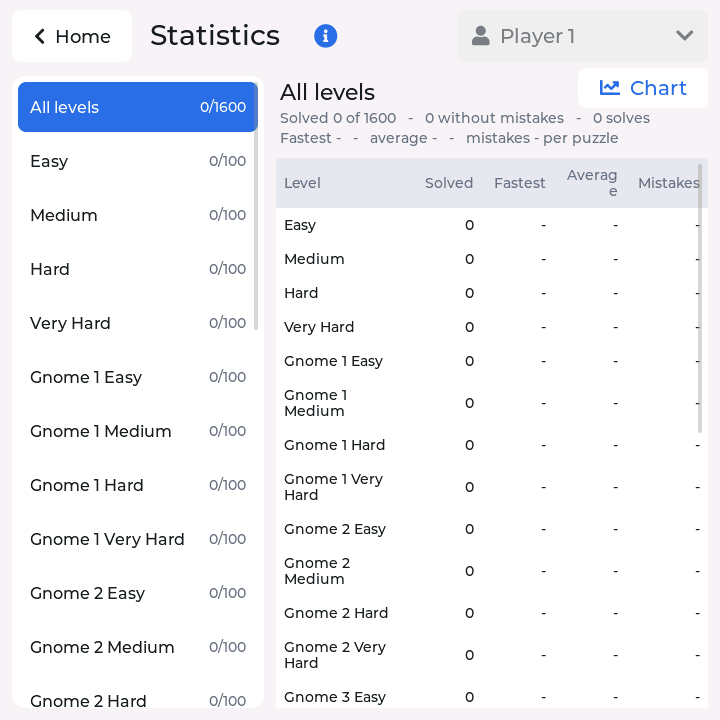
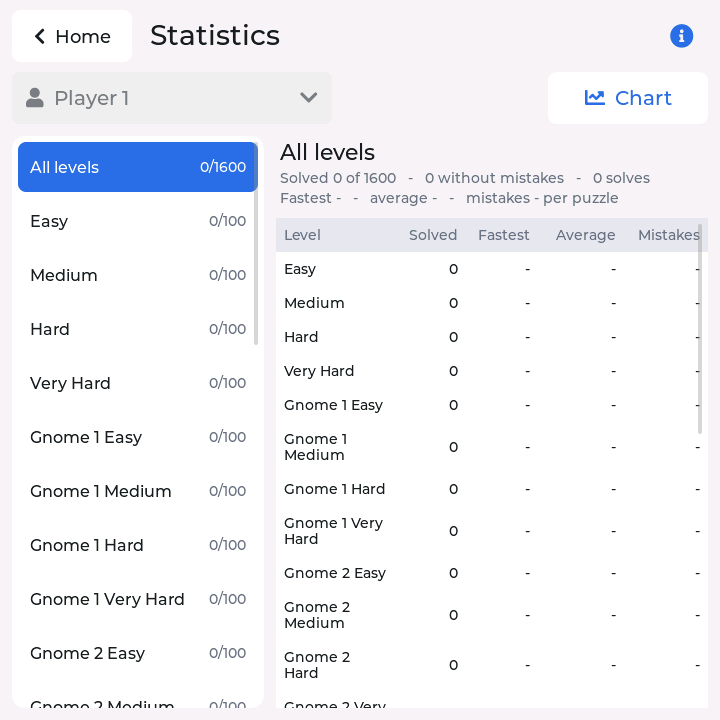
update statistics

diff --git a/src/sudoku_ui.c b/src/sudoku_ui.c
@@ -4074,7 +4074,7 @@ static void render_stats(const stats_view_t *v, bool from_db)
         /* one row per level */
         lv_label_set_text(x_title, "All levels");
         stats_summary(&v->total, PUZZLE_COUNT);
-        static const int32_t w[] = {140, 66, 72, 72, 82};   /* sums to PANE_W */
+        static const int32_t w[] = {120, 70, 72, 86, 84};   /* sums to PANE_W; every header on one line */
         static const char *const h[] = {"Level", "Solved", "Fastest", "Average", "Mistakes"};
         lv_table_set_row_count(x_table, PUZZLE_COLLECTION_COUNT + KIND_COUNT + 1);
         table_columns(5, w, h);
@@ -4105,7 +4105,7 @@ static void render_stats(const stats_view_t *v, bool from_db)
                               (unsigned)t->solved, t->solved == 1 ? "" : "s", (unsigned)t->perfect,
                               (unsigned long)t->solves);
         lv_label_set_text_fmt(x_sum2, "Fastest %s   -   average %s   -   mistakes %s per puzzle", f, a, m);
-        static const int32_t w[] = {140, 66, 72, 72, 82};
+        static const int32_t w[] = {120, 70, 72, 86, 84};
         static const char *const h[] = {"Level", "Solved", "Fastest", "Average", "Mistakes"};
         lv_table_set_row_count(x_table, GEN_LEVELS + 1);
         table_columns(5, w, h);
@@ -6656,6 +6656,10 @@ static void build_home(void)
     lv_obj_align(src, LV_ALIGN_BOTTOM_MID, 0, -8);
 }
 
+/* the Statistics screen, top down: title and (i); player, Chart; levels | table */
+#define X_ROW_Y   72                                /* the row under the title */
+#define X_BODY_Y  (X_ROW_Y + 52 + 12)               /* the level column and the pane */
+
 static void build_stats(void)
 {
     scr_stats = make_screen();
@@ -6664,12 +6668,15 @@ static void build_stats(void)
     lv_obj_t *t = make_label(scr_stats, &lv_font_montserrat_28, C_TEXT);
     lv_label_set_text(t, "Statistics");
     lv_obj_set_pos(t, 150, 20);
-    lv_obj_t *info = make_btn(scr_stats, 300, 10, 52, 52, SYMBOL_INFO, &font_icons_24, stats_info_cb, NULL);
+    lv_obj_t *info = make_btn(scr_stats, SCR_W - 12 - 52, 10, 52, 52, SYMBOL_INFO, &font_icons_24, stats_info_cb,
+                              NULL);                 /* top right, on the title's line */
     lv_obj_set_style_bg_opa(info, LV_OPA_TRANSP, 0);
     lv_obj_set_style_bg_opa(info, LV_OPA_COVER, LV_STATE_PRESSED);
     lv_obj_set_style_text_color(lv_obj_get_child(info, 0), C_ACCENT, 0);
 
     lv_obj_t *list = make_coll_column(scr_stats);
+    lv_obj_set_pos(list, 12, X_BODY_Y);
+    lv_obj_set_size(list, COLL_W, SCR_W - X_BODY_Y - 12);
     x_btn[0] = make_coll_btn(list, "All levels", &x_name_lbl[0], &x_cnt_lbl[0], stats_row_cb, 0);
     for (int c = 0; c < PUZZLE_COLLECTION_COUNT; c++) {
         x_btn[c + 1] = make_coll_btn(list, puzzle_collections[c].name, &x_name_lbl[c + 1], &x_cnt_lbl[c + 1],
@@ -6683,8 +6690,8 @@ static void build_stats(void)
     int px = PANE_X, pw = PANE_W;
     /* top bar, right: whose statistics, as a dropdown */
     x_player_dd = lv_dropdown_create(scr_stats);
-    lv_obj_set_pos(x_player_dd, SCR_W - 12 - 250, 10);
-    lv_obj_set_size(x_player_dd, 250, 52);
+    lv_obj_set_pos(x_player_dd, 12, X_ROW_Y);          /* whose statistics: first in the row */
+    lv_obj_set_size(x_player_dd, 320, 52);
     lv_obj_set_style_text_font(x_player_dd, &font_icons_20, 0);
     lv_obj_set_style_text_color(x_player_dd, C_TEXT, 0);
     lv_obj_set_style_bg_color(x_player_dd, C_CARD, 0);
@@ -6706,15 +6713,15 @@ static void build_stats(void)
     lv_obj_add_event_cb(x_player_dd, stats_player_dd_cb, LV_EVENT_VALUE_CHANGED, NULL);
     stats_player_dd_update();
     x_title = make_label(scr_stats, &lv_font_montserrat_22, C_TEXT);
-    lv_obj_set_pos(x_title, px + 4, 80);
+    lv_obj_set_pos(x_title, px + 4, X_BODY_Y + 4);
     x_sum1 = make_label(scr_stats, &lv_font_montserrat_14, C_MUTED);
-    lv_obj_set_pos(x_sum1, px + 4, 110);
+    lv_obj_set_pos(x_sum1, px + 4, X_BODY_Y + 34);
     x_sum2 = make_label(scr_stats, &lv_font_montserrat_14, C_MUTED);
-    lv_obj_set_pos(x_sum2, px + 4, 130);
+    lv_obj_set_pos(x_sum2, px + 4, X_BODY_Y + 54);
 
     x_table = lv_table_create(scr_stats);
-    lv_obj_set_pos(x_table, px, 158);
-    lv_obj_set_size(x_table, pw, SCR_W - 158 - 12);
+    lv_obj_set_pos(x_table, px, X_BODY_Y + 82);
+    lv_obj_set_size(x_table, pw, SCR_W - X_BODY_Y - 82 - 12);
     lv_obj_set_style_bg_color(x_table, C_CARD, 0);
     lv_obj_set_style_border_width(x_table, 0, 0);
     lv_obj_set_style_radius(x_table, 12, 0);
@@ -6734,15 +6741,15 @@ static void build_stats(void)
 
     x_empty = make_label(scr_stats, &lv_font_montserrat_18, C_MUTED);
     lv_label_set_text(x_empty, "No puzzles solved in this level yet.");
-    lv_obj_set_pos(x_empty, px + 4, 180);
+    lv_obj_set_pos(x_empty, px + 4, X_BODY_Y + 104);
 
     /* Chart / Table switch (top right of the pane) and the chart card in the table's place */
-    x_chart_btn = make_btn(scr_stats, SCR_W - 12 - 130, 68, 130, 40, SYMBOL_CHART "  Chart", &font_icons_20,
+    x_chart_btn = make_btn(scr_stats, SCR_W - 12 - 160, X_ROW_Y, 160, 52, SYMBOL_CHART "  Chart", &font_icons_20,
                            chart_btn_cb, NULL);
     lv_obj_set_style_text_color(lv_obj_get_child(x_chart_btn, 0), C_ACCENT, 0);
     x_chart = lv_obj_create(scr_stats);
-    lv_obj_set_pos(x_chart, px, 158);
-    lv_obj_set_size(x_chart, pw, SCR_W - 158 - 12);
+    lv_obj_set_pos(x_chart, px, X_BODY_Y + 82);
+    lv_obj_set_size(x_chart, pw, SCR_W - X_BODY_Y - 82 - 12);
     lv_obj_set_style_bg_color(x_chart, C_CARD, 0);
     lv_obj_set_style_border_width(x_chart, 0, 0);
     lv_obj_set_style_radius(x_chart, 12, 0);
@@ -6752,7 +6759,7 @@ static void build_stats(void)
     lv_obj_set_style_pad_row(x_chart, 10, 0);
     x_plot = lv_obj_create(x_chart);
     lv_obj_remove_style_all(x_plot);
-    lv_obj_set_size(x_plot, LV_PCT(100), 380);
+    lv_obj_set_size(x_plot, LV_PCT(100), 320);       /* (the trend line under it) */
     lv_obj_add_event_cb(x_plot, plot_draw_cb, LV_EVENT_DRAW_MAIN_END, NULL);
     x_trend = make_label(x_chart, &lv_font_montserrat_16, C_TEXT);
     lv_obj_set_width(x_trend, LV_PCT(100));
